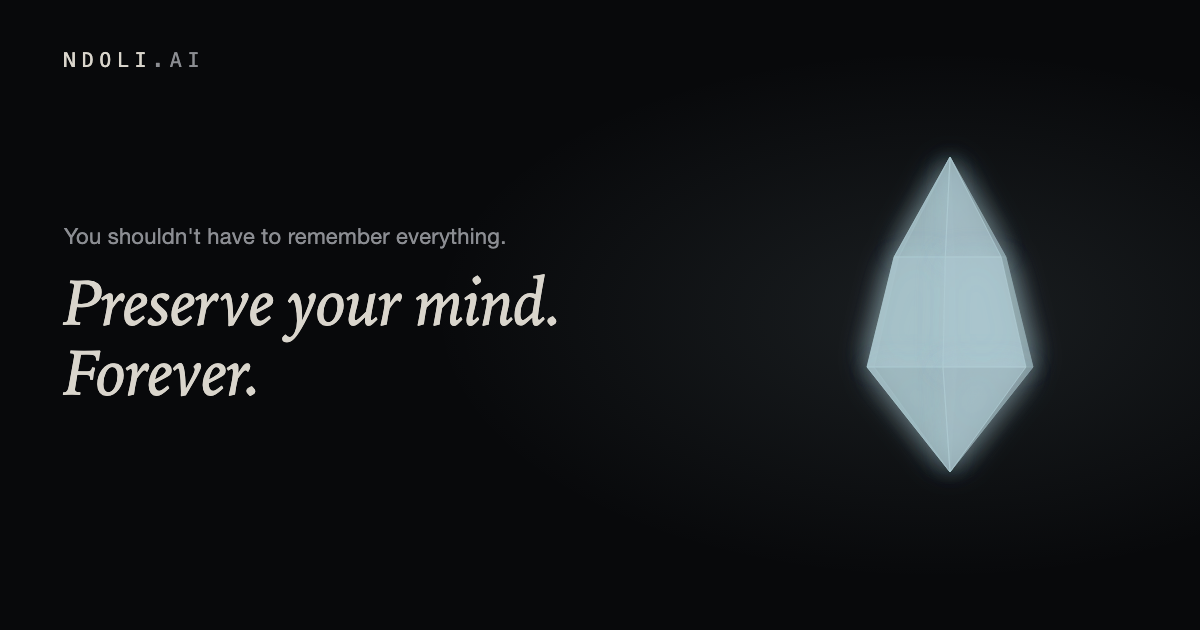
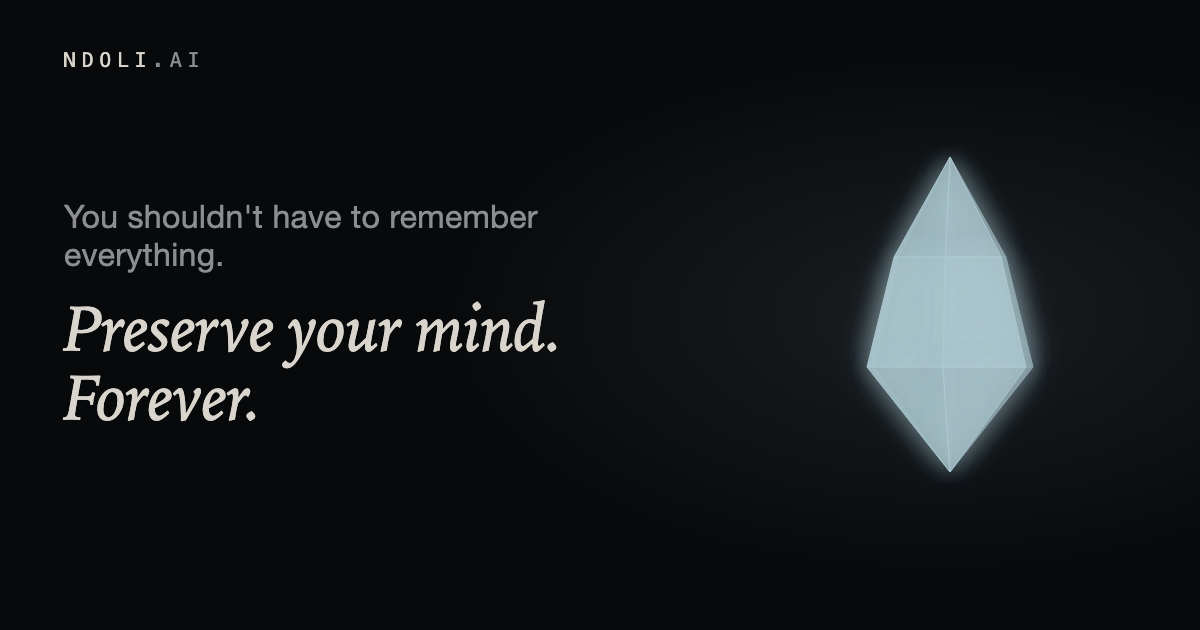
Increase lead text size on page and OG share image
The "You shouldn't have to remember everything." line was too small,
especially in the OG image where it read as illegible at chat-preview
thumbnail scale.

Changed region(s): [[0.0308, 0.3317, 0.4625, 0.6635]]

diff --git a/index.html b/index.html
@@ -127,11 +127,11 @@
   }
 
   .lead {
-    font-size: 15px;
-    letter-spacing: 0.02em;
+    font-size: 19px;
+    letter-spacing: 0.01em;
     color: var(--ink-dim);
     max-width: 40ch;
-    margin: 0 0 16px;
+    margin: 0 0 18px;
   }
 
   .cta-row { display: flex; flex-direction: column; align-items: flex-start; gap: 12px; }